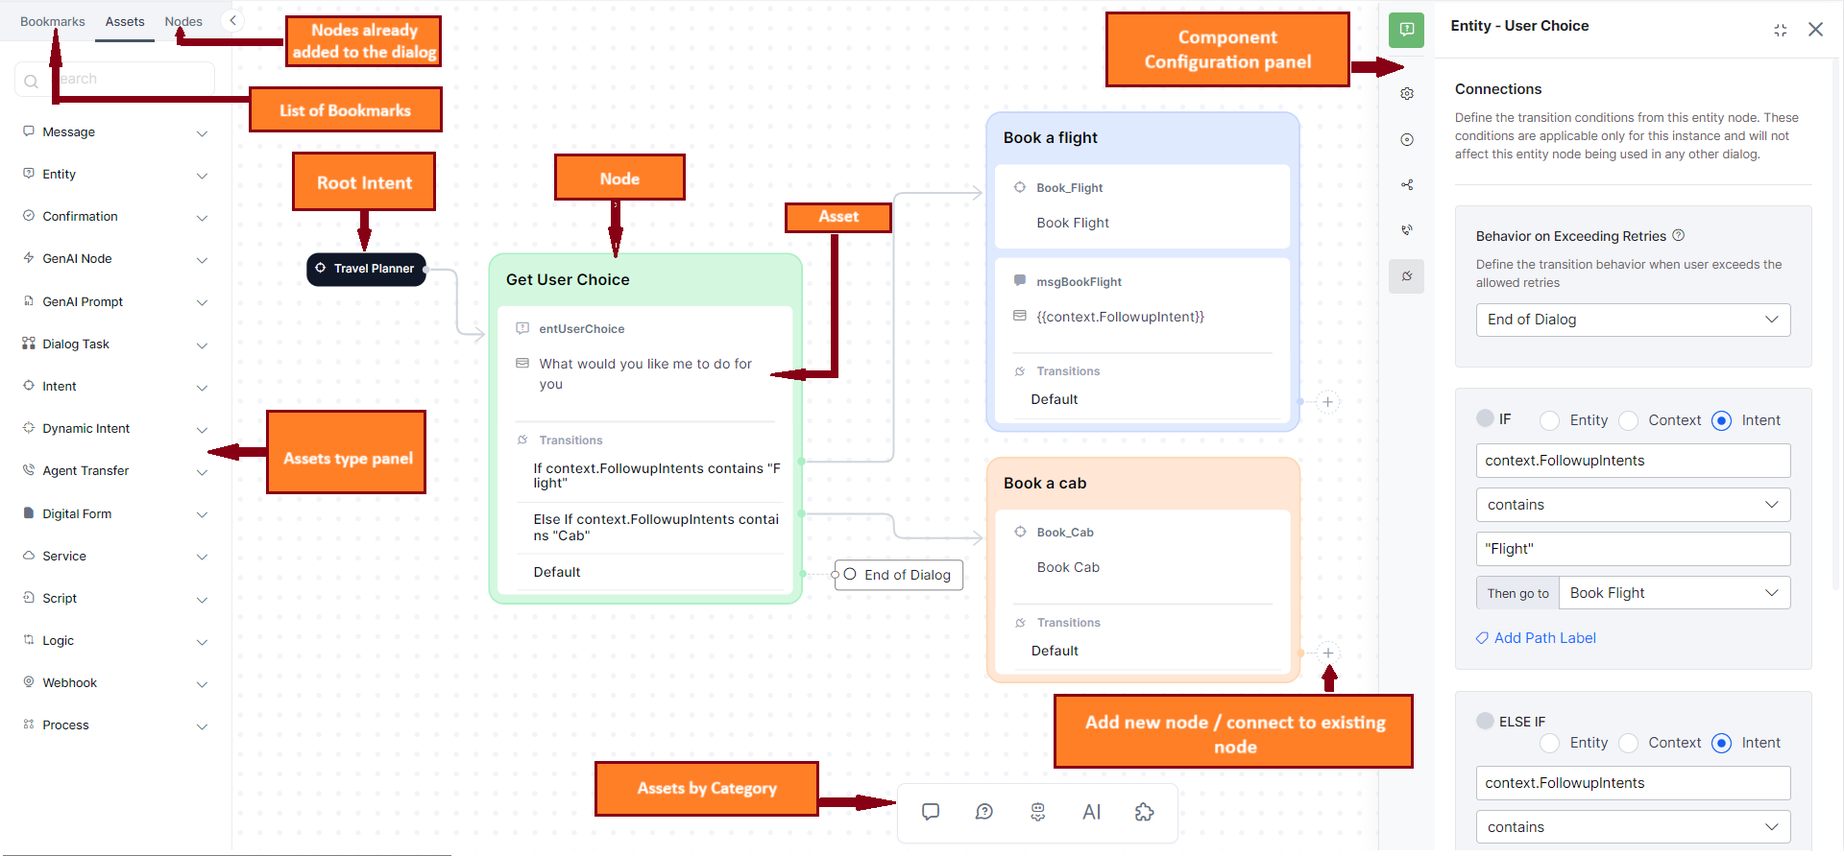
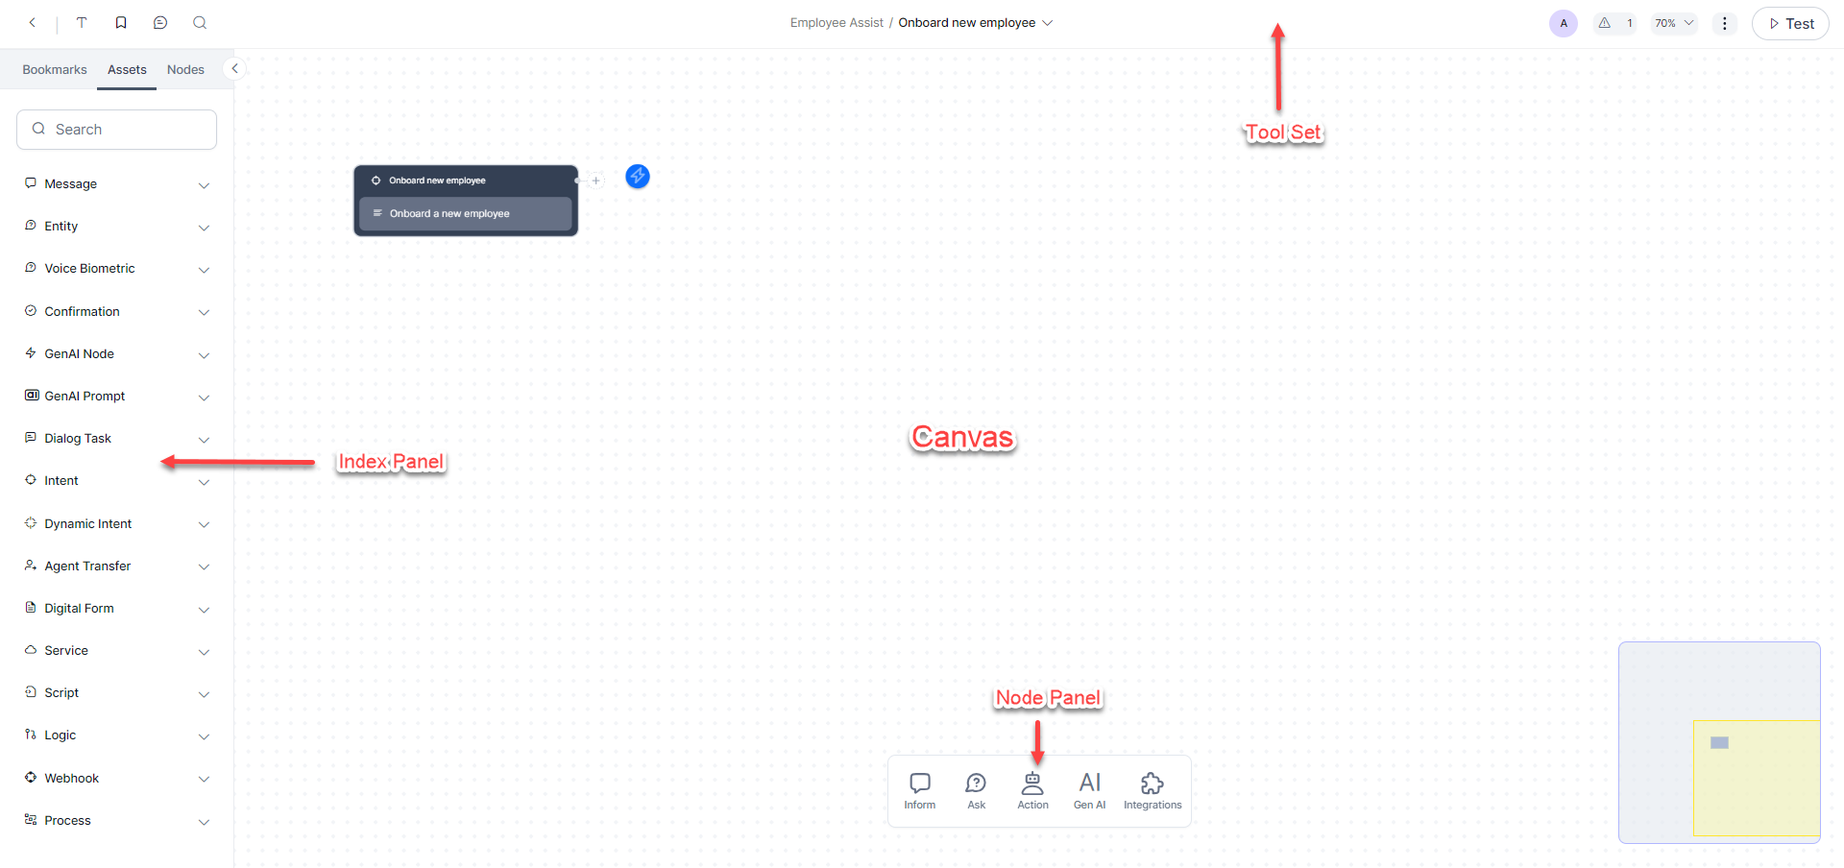
use dialog builder, rate limits

diff --git a/docs/xo/apis/automation/rate-limit.md b/docs/xo/apis/automation/rate-limit.md
@@ -11,111 +11,72 @@ The requests are checked against both the 60-second and 1-hour limits. An applic
 
 <table>
   <tr>
-   <td><strong>API Type</strong>
+   <td><strong>ENFORCEMENT LEVEL</strong>
    </td>
-   <td><strong>Period (Seconds)</strong>
+   <td><strong>RATE LIMIT</strong>
    </td>
-   <td><strong>Rate Limit </strong>
-   </td>
-   <td><strong>Enforcement Level</strong>
+   <td><strong>API LIST</strong>
    </td>
   </tr>
   <tr>
-   <td rowspan="2" >Runtime APIs<br>
-(Proactive <a href="https://developer.kore.ai/docs/bots/api-guide/proactive-notifications-api/" target="_blank">Notification</a> and <a href="https://developer.kore.ai/docs/bots/api-guide/proactive-notification-status-api/" target="_blank">Status</a> APIs)
-   </td>
-   <td>60
-   </td>
-   <td>600
-   </td>
    <td>bot
    </td>
-  </tr>
-  <tr>
-   <td>3600
+   <td>60 per minute
+<p>
+1800 per hour
    </td>
-   <td>18000
-   </td>
-   <td>bot
-   </td>
-  </tr>
-  <tr>
-   <td rowspan="2" >Design Time APIs<br>
-(<a href="https://developer.kore.ai/docs/bots/api-guide/api-list/#Bot_Definition_APIs">Bot Definition</a>, <a href="https://developer.kore.ai/docs/bots/api-guide/api-list/#NLP_Training_APIs" target="_blank">NLP Training</a>, and <a href="https://developer.kore.ai/docs/bots/api-guide/api-list/#Analytics_APIs" target="_blank">Analytics APIs</a>)  
-   </td>
-   <td>60
-   </td>
-   <td>60
-   </td>
-   <td>bot
+   <td>Bot Definition APIs<br> (<a href="../upload-file/">Upload File</a>, <a href="https://developer.kore.ai/docs/bots/api-guide/import-bot-as-a-new-bot-api/">Import Bot as a New Bot</a>, <a href="https://developer.kore.ai/docs/bots/api-guide/import-bot-into-an-existing-bot-api/">Import Bot into an Existing Bot</a>, <a href="https://developer.kore.ai/docs/bots/api-guide/import-bot-functions-api/">Import Bot Functions</a>, <a href="https://developer.kore.ai/docs/bots/api-guide/install-sample-bot-api/">Install Sample Bot</a>, <a href="https://developer.kore.ai/docs/bots/api-guide/bot-export-api/">Bot Export</a>, <a href="https://developer.kore.ai/docs/bots/api-guide/channel-enablement-api/">Enable Channel</a>, <a href="https://developer.kore.ai/docs/bots/api-guide/add-and-enable-a-new-language-api/">Add and Enable a New Language</a>, <a href="https://developer.kore.ai/docs/bots/api-guide/enable-an-existing-language-api/">Enable an existing Language</a>, <a href="https://developer.kore.ai/docs/bots/api-guide/disable-an-existing-language-api/">Disable an existing Language</a>, <a href="https://developer.kore.ai/docs/bots/api-guide/language-updation-api/">Update a Language Configuration</a>, <a href="https://developer.kore.ai/docs/bots/api-guide/publish-bot-api/">Publish Bot</a>, <a href="https://developer.kore.ai/docs/bots/api-guide/bot-variables-import/">Bot Variables Import</a>, <a href="https://developer.kore.ai/docs/bots/api-guide/batch-test-execution-api/">Batch Test Execution</a>, <a href="https://developer.kore.ai/docs/bots/api-guide/get-batch-test-suites-api/">Get Batch Test Suites</a>, <a href="https://developer.kore.ai/docs/bots/api-guide/export-batch-test-suite-api/">Export Batch Test Suite</a>, <a href="https://developer.kore.ai/docs/bots/api-guide/import-batch-test-suite-api/">Import Batch Test Suite</a>, <a href="https://developer.kore.ai/docs/bots/api-guide/delete-batch-test-suite-api/">Delete Batch Test Suite</a>, <a href="https://developer.kore.ai/docs/bots/api-guide/delete-batch-test-suite-execution-api/">Delete Batch Test Suite Execution</a>, <a href="https://developer.kore.ai/docs/bots/api-guide/create-a-test-suite-api/">Create (Import) a Conversation Test Suite</a>, <a href="https://developer.kore.ai/docs/bots/api-guide/execute-a-test-suite-api/">Conversation Test Suite Execution</a>, and <a href="https://developer.kore.ai/docs/bots/api-guide/delete-a-test-suite-api/">Delete Conversation Test Suite</a>)
+<p>
+NLP Training APIs (<a href="https://developer.kore.ai/docs/bots/api-guide/ml-utterances-import-api/">ML Utterances Import</a>, <a href="https://developer.kore.ai/docs/bots/api-guide/ml-training-api/">ML Utterance Train</a>, <a href="https://developer.kore.ai/docs/bots/api-guide/ml-utterances-export-api/">ML Utterances Export</a>, <a href="https://developer.kore.ai/docs/bots/api-guide/faq-training-api/">FAQ Training</a>, <a href="https://developer.kore.ai/docs/bots/api-guide/extract-from-file-or-url-kg/">Extraction from file or URL</a>, <a href="https://developer.kore.ai/docs/bots/api-guide/get-extracts-history-kg/">Get Extractions History</a>, <a href="https://developer.kore.ai/docs/bots/api-guide/get-extraction-questions-kg/">Get Extraction Question</a>, <a href="https://developer.kore.ai/docs/bots/api-guide/get-knowledgetasks-kg/">Get KnowledgeTasks</a>, <a href="https://developer.kore.ai/docs/bots/api-guide/add-questions-from-extract-kg/">Add Questions from Extraction</a>, <a href="https://developer.kore.ai/docs/bots/api-guide/get-faqs-kg/">Get FAQs</a>, and <a href="https://developer.kore.ai/docs/bots/api-guide/update-nlp-configurations/">Update NLP Configurations</a>)
+<p>
+Analytics APIs (<a href="https://developer.kore.ai/docs/bots/api-guide/find-intent-api/">Find Intent</a>, <a href="https://developer.kore.ai/docs/bots/api-guide/conversation-history-api/">Conversation History</a>, <a href="https://developer.kore.ai/docs/bots/api-guide/conversation-summary-api/">Conversation Summary</a>, <a href="https://developer.kore.ai/docs/bots/api-guide/feedback-survey-api/">Feedback Analytics</a>, <a href="https://developer.kore.ai/docs/bots/api-guide/debug-logs-api/">Debug Logs</a>, <a href="https://developer.kore.ai/docs/bots/api-guide/get-changelogs-api/">Get ChangeLogs</a>, <a href="https://developer.kore.ai/docs/bots/api-guide/sessions-api/">Sessions History</a>, <a href="https://developer.kore.ai/docs/bots/api-guide/get-widget/">Get Dashboard Widget Data</a>, <a href="https://developer.kore.ai/docs/bots/api-guide/get-analytics-api/">Get Analytics</a>, <a href="https://developer.kore.ai/docs/bots/api-guide/user-engagement-trend-api/">User Engagement Trend</a>, and <a href="https://developer.kore.ai/docs/bots/api-guide/conversation-details-summary-api/">Conversation Details and Summary</a>)
    </td>
   </tr>
   <tr>
-   <td>3600
+   <td>request_id
    </td>
-   <td>1800
+   <td>60 per minute
+<p>
+1800 per hour
    </td>
-   <td>bot
+   <td>Bot Definition Status APIs (<a href="https://developer.kore.ai/docs/bots/api-guide/bot-import-status-api/">Bot Import Status</a>, <a href="https://developer.kore.ai/docs/bots/api-guide/bot-export-status-api/">Bot Export – Status</a>, <a href="https://developer.kore.ai/docs/bots/api-guide/bot-publish-status-api/">Bot Publish Status</a>, <a href="https://developer.kore.ai/docs/bots/api-guide/batch-test-execution-status-api/">Batch Test Execution Status</a>, <a href="https://developer.kore.ai/docs/bots/api-guide/get-the-creation-status-of-a-test-suite-api/">Conversation Test Suite Creation Status</a>, and <a href="https://developer.kore.ai/docs/bots/api-guide/get-the-execution-status-and-summary-of-a-test-suite-api/">Conversation Test Suite Execution Status</a>)
+<p>
+NLP Training Status APIs (<a href="https://developer.kore.ai/docs/bots/api-guide/ml-utterances-import-status-api/">ML Utterances Import Status</a>, <a href="https://developer.kore.ai/docs/bots/api-guide/ml-training-status-api/">ML Utterance Train Status</a>, <a href="https://developer.kore.ai/docs/bots/api-guide/ml-utterances-export-status-api/">ML Utterances Export Status</a>, and <a href="https://developer.kore.ai/docs/bots/api-guide/faq-training-status-api/">FAQ Training Status</a>)
    </td>
   </tr>
   <tr>
-   <td rowspan="2" >Design Time Admin APIs<br>
-(<a href="https://developer.kore.ai/docs/bots/api-guide/api-list/#Admin_APIs" target="_blank">Admin APIs</a>)
-   </td>
-   <td>60
-   </td>
-   <td>60
-   </td>
    <td>account
    </td>
-  </tr>
-  <tr>
-   <td>3600
+   <td>60 per minute
+<p>
+1800 per hour
    </td>
-   <td>1800
-   </td>
-   <td>account
+   <td>Admin APIs (<a href="https://developer.kore.ai/docs/bots/api-guide/get-bots-api/">Get Bots</a>, <a href="https://developer.kore.ai/docs/bots/api-guide/import-roles-api/">Import Roles</a>, <a href="https://developer.kore.ai/docs/bots/api-guide/get-roles-api/">Get Roles</a>, <a href="https://developer.kore.ai/docs/bots/api-guide/get-user-roles-details-api/">Get User Roles Details</a>, <a href="https://developer.kore.ai/docs/bots/api-guide/get-groups-api/">Get Groups</a>, <a href="https://developer.kore.ai/docs/bots/api-guide/export-roles-api/">Export Roles</a>, <a href="https://developer.kore.ai/docs/bots/api-guide/assign-bt-roles-api/">Assign BT Roles</a>, <a href="https://developer.kore.ai/docs/bots/api-guide/assign-admin-roles-api/">Assign Admin Roles</a>, <a href="https://developer.kore.ai/docs/bots/api-guide/update-user-access-api/">Update User Access</a>, <a href="https://developer.kore.ai/docs/bots/api-guide/create-user-api/">Create Users</a>, <a href="https://developer.kore.ai/docs/bots/api-guide/get-user-api/">Get Users Information</a>, <a href="https://developer.kore.ai/docs/bots/api-guide/update-user-api/">Update User</a>, <a href="https://developer.kore.ai/docs/bots/api-guide/delete-user-api/">Remove Users from Account</a>, <a href="https://developer.kore.ai/docs/bots/api-guide/delete-customer-data-api/">Delete Customer Data</a>, <a href="https://developer.kore.ai/docs/bots/api-guide/delete-customer-data-status-api/">Delete Customer Data Status API</a>, and <a href="https://developer.kore.ai/docs/bots/api-guide/get-audit-logs-api/">Get Admin Console Audit Logs</a>)
    </td>
   </tr>
   <tr>
-   <td rowspan="2" >Runtime Table APIs<br>
-(<a href="https://developer.kore.ai/docs/bots/api-guide/api-list/#Data_Data_Table_Access_APIs" target="_blank">Data Access APIs</a>)
+   <td>bot
    </td>
-   <td>60
+   <td>600 per minute
+<p>
+18000 per hour
    </td>
-   <td>600
-   </td>
-   <td>account + table
-   </td>
-  </tr>
-  <tr>
-   <td>3600
-   </td>
-   <td>18000
-   </td>
-   <td>account + table
+   <td>Bot Definition Notification APIs (<a href="https://developer.kore.ai/docs/bots/api-guide/proactive-notifications-api/">Proactive Notification</a>, <a href="https://developer.kore.ai/docs/bots/api-guide/proactive-notification-status-api/">Proactive Notification Status</a>)
    </td>
   </tr>
   <tr>
-   <td rowspan="2" >Design Time Status APIs<br>
-(All design time APIs returning status)
+   <td>account+table
    </td>
-   <td>60
+   <td>600 per minute
+<p>
+18000 per hour
    </td>
-   <td>60
-   </td>
-   <td>requestid
-   </td>
-  </tr>
-  <tr>
-   <td>3600
-   </td>
-   <td>1800
-   </td>
-   <td>requestid
+   <td>Data access APIs (<a href="https://developer.kore.ai/docs/bots/api-guide/data-insert-api/">Insert Data</a>, <a href="https://developer.kore.ai/docs/bots/api-guide/data-insert-bulk-api/">Insert Bulk Data</a>, <a href="https://developer.kore.ai/docs/bots/api-guide/data-update-api/">Update Data</a>, <a href="https://developer.kore.ai/docs/bots/api-guide/data-delete-api/">Delete Data</a>, <a href="https://developer.kore.ai/docs/bots/api-guide/query-data-table-api/">Get Table Data</a>, and <a href="https://developer.kore.ai/docs/bots/api-guide/query-data-view-api/">Get View Data</a>)
    </td>
   </tr>
 </table>
+
+
 
 
 

diff --git a/docs/xo/automation/use-cases/dialogs/using-the-dialog-builder-tool.md b/docs/xo/automation/use-cases/dialogs/using-the-dialog-builder-tool.md
@@ -107,9 +107,70 @@ You can either scroll through the entire list, or find the required template usi
 
 ## Dialog Task Builder Overview
 
-Before moving on, here is an overview of the Dialog Task Builder. For details, please see [Navigating the Dialog Task Builder](../navigating-dialog-tasks/){:target="_blank"}.
+Before moving on, here is an overview of the Dialog Task Builder. For details on navigating dialog tasks, please see [Navigating the Dialog Task Builder](../navigating-dialog-tasks/){:target="_blank"}.
 
-<img src="../images/navigate-dialog-builder-canvas.png" alt="Dialog task builder" title="Dialog task builder" style="border:1px solid gray; zoon:60%;">
+<img src="images/navigate-dialog-builder.png" alt="Dialog builder" title="Dialog builder" style="border:1px solid gray;zoom:70%;">
+
+The Dialog Builder interface consists of:
+
+ * [Tool Set](#the-tool-set)
+ * [Index Panel](#the-index-panel)
+ * [Canvas](#the-canvas)
+ * [Node Panel](#the-node-panel)
+
+
+### The Tool Set
+
+<img src="../images/dialog-top-menu.png" alt="Tool Set" title="Tool Set" style="border:1px solid gray; zoom:60%;">
+
+The Dialog Design process occurs in the Conversation Designer. This comes with its specific top menu, where you can access the following features:
+
+* **Exit the Dialog Task Builder** and go back to the Dialog Tasks List - Click to exit the dialog builder and go back to the list of dialog tasks within the current app (Automation > Use Cases > Dialogs)
+* Add **Bookmarks** -  You can bookmark frequently visited or crucial content in the canvas with relevant information. They help you to navigate to the bookmarked content without having to search or browse extensively.
+* Add **Text** - You can add text on any place on the canvas to keep a note of the logic being developed in a sequence or group of sequences, or other relevant nodes about the logic building.
+* Add **Comment** - In a comment you can tag other users to enhance communication through feedback, suggestions, and discussions on specific elements of the design.
+* **Find** - You can find nodes, variables, sequences etc. Clicking this icon would open a window where you can perform a universal search, you will get a list of all the nodes, variables, sequences, API's etc grouped by type that contain the search string.
+
+    <img src="../images/tool-set-search.gif" alt="Search" title="Search" style="border:1px solid gray;zoom:70%;">
+
+* **Switch between Dialog Tasks** – Use this dropdown if you need to switch a different dialog task within the same app. You don’t have to go back to the list of dialogs to do so.
+* **Test** -  You can chat with the app in real-time to test recognition, performance, and flow as if it were a live session.
+* **View Warnings** - You can see a list of errors and warnings that might have occured during the conversation design, and do the needful to rectify them.
+* **Visual Settings** - You can manage the zoom percentage and other visual settings like Fit to Screen, Show or Hide Mini map and Zoom to Last Edited. This setting is represented on the Tool Set by The Zoom percentage.
+* **More options**, where you can access Dialog Settings, Manage Interruptions, Manage Ammend behavior and View Comments.
+* **Users in the dialog** - You can see bubbles containing names of all the users of the current dialog, like Bot Owner, Bot Developer, Conversation Designer etc.
+
+### The Index Panel
+
+<img src="../images/using-dialog-builder-index-panel.png" alt="Index Panel" title="Index Panel" style="border:1px solid gray; zoom:60%;">
+
+The Index panel consists of:
+
+* [Bookmarks](#bookmark) tab
+* [Assets](#assets) tab
+* [Nodes](#nodes) tab
+
+### Bookmark
+
+Bookmarks offer the ability to organize and reference important information. You can bookmark frequently visited or crucial content in the canvas with relevant information. They help you to navigate to the bookmarked content without having to search or browse extensively. Here's how the ability to add bookmarks can be advantageous:
+
+1. Navigation Efficiency:
+    * Bookmarks provide a quick and efficient way to navigate through a complex dialog structure.
+    * Users can jump directly to specific dialogs of interest without the need for extensive scrolling or searching.
+
+2. Time Savings:
+    * The feature saves time by eliminating the need for users to manually search for specific dialogs within a complex structure.
+    * Users can efficiently locate and revisit dialogs, reducing the overall time spent on navigation.
+    * Users have greater control over their navigation, contributing to a more intuitive and efficient design process.
+
+In summary, bookmarks offer a practical solution to the challenges associated with navigating complex dialog designs. They empower users to personalize their experience and focus on key components within the context of intricate dialog structures.
+
+**_[Video - Add Bookmark]_**
+
+The inclusion of a dedicated Bookmark tab in the left-hand side panel further enhances the usability of the bookmark feature. The Bookmark tab on the left-hand side panel not only provides a structured and organized way to manage bookmarks but also contributes to a user-friendly interface, making it easier to navigate and interact with the bookmarked dialogs.
+
+<img src="../images/using-dialog-builder-img22-bookmark-tab.png" alt="Bookmark tab" title="Bookmark tab" style="border:1px solid gray; zoon:60%;">
+
 
 ## Sequences
 
@@ -220,10 +281,13 @@ Adding text to a canvas as notes is a common practice in various design and coll
 1. Introduction to Modules:
     * Use text on the canvas to introduce the purpose and scope of different modules in your project.
     * Provide a brief overview of what each module is designed to achieve.
-2. Flow Logic:
+2. Focus on Key Dialogs:
+    * Users can make a note of frequently referenced dialogs.
+    * This helps in maintaining focus on critical sections of the conversation flow, enhancing productivity during the design and review process.
+3. Flow Logic:
     * Use text annotations to describe the flow logic between different modules or components.
     * Highlight key decision points, inputs, and outputs within the overall flow.
-3. Notes for Future Reference:
+4. Notes for Future Reference:
     * Include notes that provide insights or considerations for future work or modifications.
     * Document any design decisions, constraints, or important considerations.
 
@@ -242,40 +306,14 @@ Tagging a user in a comment is a way to draw their attention to a specific part 
 
 If you're working with a team of designers or collaborators, you can use comments to provide specific instructions or guidelines for designing certain elements. You can also use text on the canvas to communicate ideas, suggestions, or questions directly within the design space.
 
-**_[Video - Add Comment]_**
-
-
-### Bookmark
-
-Bookmarks offer the ability to organize and reference important information. You can bookmark frequently visited or crucial content in the canvas with relevant information. They help you to navigate to the bookmarked content without having to search or browse extensively. Here's how the ability to add bookmarks can be advantageous:
-
-1. Navigation Efficiency:
-    * Bookmarks provide a quick and efficient way to navigate through a complex dialog structure.
-    * Users can jump directly to specific dialogs of interest without the need for extensive scrolling or searching.
-2. Focus on Key Dialogs:
-    * Users can mark and bookmark key or frequently referenced dialogs.
-    * This helps in maintaining focus on critical sections of the conversation flow, enhancing productivity during the design and review process.
-3. Project Organization:
-    * Bookmarks contribute to better project organization by allowing users to create a personalized structure for quick access.
-    * Users can categorize and group dialogs based on their relevance or importance, facilitating a more streamlined workflow.
 4. Collaborative Work:
     * In collaborative environments, bookmarks can serve as visual indicators of significant points in the dialog flow.
     * This aids communication among team members by creating a shared understanding of which dialogs are crucial or require attention.
-5. Time Savings:
-    * The feature saves time by eliminating the need for users to manually search for specific dialogs within a complex structure.
-    * Users can efficiently locate and revisit dialogs, reducing the overall time spent on navigation.
-6. Enhanced User Experience:
-    * Adding bookmarks enhances the overall user experience by providing a user-friendly and customizable way to interact with the dialog design interface.
-    * Users have greater control over their navigation, contributing to a more intuitive and efficient design process. 
+
+**_[Video - Add Comment]_**
 
 
-In summary, bookmarks offer a practical solution to the challenges associated with navigating complex dialog designs. They empower users to personalize their experience, focus on key components, and streamline collaboration within the context of intricate dialog structures.
 
-**_[Video - Add Bookmark]_**
-
-The inclusion of a dedicated Bookmark tab in the left-hand side panel further enhances the usability of the bookmark feature. The Bookmark tab on the left-hand side panel not only provides a structured and organized way to manage bookmarks but also contributes to a user-friendly interface, making it easier to navigate and interact with the bookmarked dialogs.
-
-<img src="../images/using-dialog-builder-img22-bookmark-tab.png" alt="Bookmark tab" title="Bookmark tab" style="border:1px solid gray; zoon:60%;">
 
 
 ## Node Groups (Planned for Phase 2)

diff --git a/docs/xo/automation/use-cases/dialogs/navigating-dialog-tasks.md b/docs/xo/automation/use-cases/dialogs/navigating-dialog-tasks.md
@@ -135,7 +135,7 @@ Please see the articles linked below for information on:
 * [Manage Ammend Behavior.](../../../natural-language/nlu-configurations/amend-entities){:target="_blank"}
 
 
-## Conversation Design, Logic Building & Training
+## Dialog Builder - Conversation Design and Logic Building
 
 The Dialog Builder is where you can design, build, train and test the conversations that your VA can have with your users.
 
@@ -147,24 +147,29 @@ You can access them by creating a new Dialog Task or by opening an existing one.
 
 You can build Dialogs by adding and configuring [nodes](../node-types/nodes-transitions/){:target="_blank"} in the required sequence as per business logic in the Dialog Builder.
 
+The Dialog Builder interface consists of:
 
-### Design the Conversation Flow
+ * [Tool Set](../using-the-dialog-builder-tool/#the-tool-set)
+ * [Index Panel](../using-the-dialog-builder-tool/#the-index-panel)
+ * [Canvas](../using-the-dialog-builder-tool/#the-canvas)
+ * [Node Panel](../using-the-dialog-builder-tool/#the-node-panel)
 
+ <img src="images/navigate-dialog-builder.png" alt="Dialog builder" title="Dialog builder" style="border:1px solid gray;zoom:70%;">
 
-#### The Top Menu
+### The Tool Set
 
-<img src="../images/dialog-top-menu.png" alt="Top menu" title="Top menu" style="border:1px solid gray; zoom:60%;">
+<img src="../images/dialog-top-menu.png" alt="Tool Set" title="Tool Set" style="border:1px solid gray; zoom:60%;">
 
 
 The Dialog Design process occurs in the Conversation Designer. This comes with its specific top menu, where you can access the following features:
 
-* **Exit the Dialog Task Builder and go back to the Dialog Tasks List**.
+* **Exit the Dialog Task Builder** and go back to the Dialog Tasks List.
 * **Add Bookmarks, Text and Comments**
 * **Find** nodes, variables, sequesnces etc
 * **Switch between Dialog Tasks** – Use this dropdown if you need to work on a different task. You don’t have to go back to the list to do so.
 * **Test** to chat with the assistant in real-time to test recognition, performance, and flow as if it were a live session.
 * **View Warnings**
-* **Manage Zoom percentage and other visual settings**
+* **Manage Zoom percentage** and other visual settings
 * **More options**, where you can access Dialog Settings, Manage Interruptions, Manage Ammend behavior and view comments.
 
 

diff --git a/docs/xo/automation/use-cases/dialogs/node-types/working-with-the-service-node.md b/docs/xo/automation/use-cases/dialogs/node-types/working-with-the-service-node.md
@@ -58,7 +58,7 @@ To configure the Component Properties tab, please follow the steps below:
 
 9. Add the sample response(s) you want the Service Node to return.
 
-    <img src="../images/service-node-img4-sample-response.png" alt="Service node - Sample response" title="Service node - Sample response" style="border:1px solid gray;zoom:70%;">
+    <img src="../images/service-node-img4-add-sample-response.png" alt="Service node - Sample response" title="Service node - Sample response" style="border:1px solid gray;zoom:70%;">
 
     Depending on the Service Type selected, refer to one of the following sections in this topic:
 
